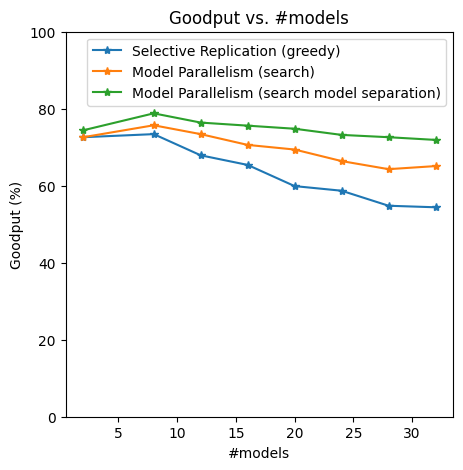
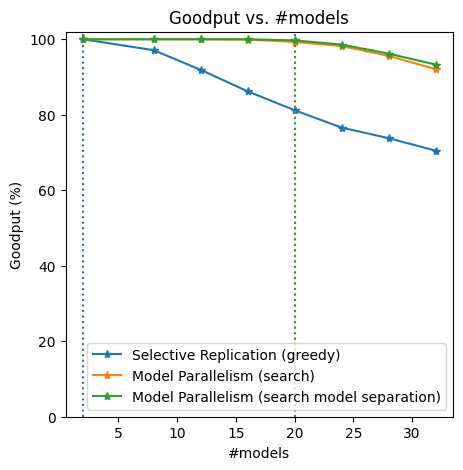
another working case

diff --git a/experiments/e2e_goodput/general_model_exp.py b/experiments/e2e_goodput/general_model_exp.py
@@ -151,7 +151,7 @@ if __name__ == "__main__":
                 if args.workload == "synthetic":
                      cases.append(GeneralModelCase(exp_name,
                         fixed_num_devices, mem_budget, new_model_types, new_model_names,
-                        total_rate, rate_distribution,
+                        total_rate * num_modelset / fixed_num_modelset, rate_distribution,
                         arrival_process, arrival_process_kwargs,
                         fixed_slo_scale, duration, policy_name))
                 else:

diff --git a/benchmarks/alpa/general_model_case.py b/benchmarks/alpa/general_model_case.py
@@ -206,7 +206,7 @@ def run_one_general_model_case(case, mode,
         stats, placement = run_one_case(serving_case, debug=debug)
 
     #Workload.print_stats(stats)
-    print(f"group #req: {stats.group_num_requests}")
+    #print(f"group #req: {stats.group_num_requests}")
 
     (exp_name, num_devices, mem_budget, model_types, model_names,
     total_rate, rate_distribution, arrival_process, arrival_process_kwargs,

diff --git a/experiments/e2e_goodput/general_model_suite.py b/experiments/e2e_goodput/general_model_suite.py
@@ -13,7 +13,7 @@ BenchmarkConfig = namedtuple(
 
 synthetic_suite = {
     "all_transformers": BenchmarkConfig(    
-        fixed_num_devices = 16,
+        fixed_num_devices = 24,
         fixed_num_modelset = 20,
         fixed_rate_scale = 70,
         fixed_cv_scale = 1,
